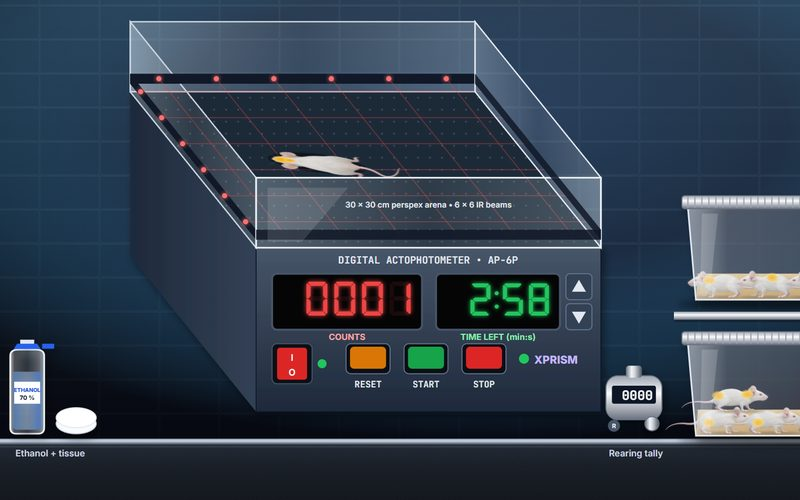
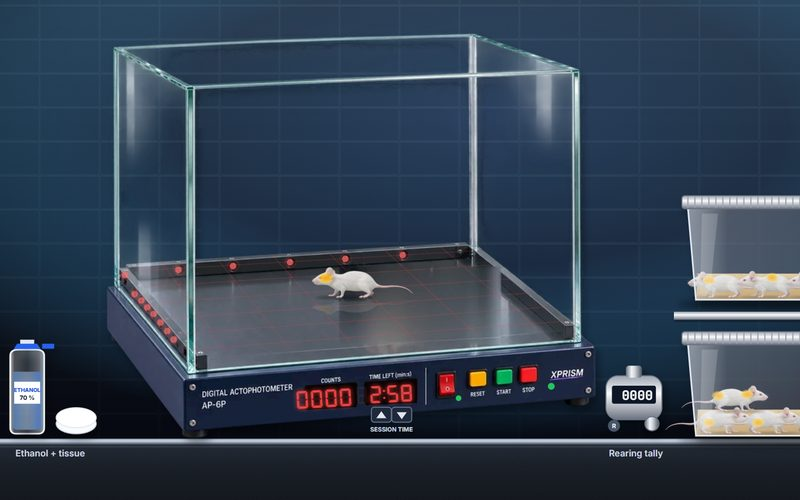
Use a photograph of the actophotometer in Exp 09
The drawn apparatus is replaced by a photograph of a digital
actophotometer, its own mouse removed. The live counter and timer show
in its displays, its power, reset, start and stop buttons work, two small
keys set the session time, and the IR emitters glow while it is on. The
arena maps onto its floor in perspective, where the photographed mouse
walks, rears and is reflected in the metal floor.

diff --git a/experiments/09-locomotor-activity-actophotometer.html b/experiments/09-locomotor-activity-actophotometer.html
@@ -1409,51 +1409,52 @@
     }
 
     // ================================================================ STATION 3: ACTOPHOTOMETER (scene + controls)
-    const AR = { X: 150, Y: 120, SX: 1.15, KX: 0.42, SY: 0.52, H: 70, N: 6 };
-    const arP = (u, v) => [AR.X + u * AR.SX + v * AR.KX, AR.Y + v * AR.SY];
+    // The apparatus is a photograph of a digital actophotometer (tools/animal-photos: actophotometer, 1536 x 1024 px, its
+    // mouse removed), drawn at AC.s scene px per photo px with its top left at (AC.x, AC.y). The 30 x 30 cm arena (u, v
+    // in mm x 10, 0..300, u to the right, v towards the front) maps onto its floor between the four corners below.
+    const AC = { src: '../assets/img/animals/actophotometer.webp?v=1', w: 1536, h: 1024, x: 46, y: 44, s: .425,
+      floor: { bl: [252, 598], br: [1036, 553], fl: [404, 820], fr: [1282, 752] } };
+    const AR = { N: 6 };
+    const acPx = (px, py) => [AC.x + px * AC.s, AC.y + py * AC.s];
+    function arP(u, v) {
+      const a = u / 300, b = v / 300, F = AC.floor;
+      const px = (1 - b) * ((1 - a) * F.bl[0] + a * F.br[0]) + b * ((1 - a) * F.fl[0] + a * F.fr[0]);
+      const py = (1 - b) * ((1 - a) * F.bl[1] + a * F.br[1]) + b * ((1 - a) * F.fl[1] + a * F.fr[1]);
+      return acPx(px, py);
+    }
     const PRESETS = [60, 120, 180, 300, 600];
     function scene3() {
       const a = S.ac; let s = room(470);
       const P = (u, v, dz = 0) => { const [x, y] = arP(u, v); return `${x.toFixed(1)},${(y - dz).toFixed(1)}`; };
-      s += `<defs><linearGradient id="acBody" x1="0" y1="0" x2="0" y2="1"><stop offset="0" stop-color="#475569"/><stop offset="1" stop-color="#1e293b"/></linearGradient>
-        <linearGradient id="acSide" x1="0" x2="1"><stop offset="0" stop-color="#1e293b"/><stop offset="1" stop-color="#334155"/></linearGradient>
-        <linearGradient id="perspex" x1="0" x2="1"><stop offset="0" stop-color="#e0f2fe" stop-opacity=".28"/><stop offset=".5" stop-color="#f8fafc" stop-opacity=".08"/><stop offset="1" stop-color="#e0f2fe" stop-opacity=".22"/></linearGradient>
-        <pattern id="floorGrid" width="12" height="12" patternUnits="userSpaceOnUse"><rect width="12" height="12" fill="#1f2937"/><circle cx="6" cy="6" r=".8" fill="#475569"/></pattern></defs>`;
-      // device base (box under the arena)
-      s += `<g filter="url(#sh)"><polygon points="${P(0, 0)} ${P(0, 300)} ${arP(0, 300)[0]},440 ${AR.X},${arP(0, 0)[1] + 164}" fill="url(#acSide)"/>
-        <polygon points="${P(0, 300)} ${P(300, 300)} ${arP(300, 300)[0]},440 ${arP(0, 300)[0]},440" fill="url(#acBody)" stroke="#0f172a"/>
-        <polygon points="${P(0, 0)} ${P(300, 0)} ${P(300, 300)} ${P(0, 300)}" fill="url(#floorGrid)" stroke="#0f172a"/></g>`;
-      // back & left walls with IR emitter strips
-      s += `<polygon points="${P(0, 0)} ${P(300, 0)} ${P(300, 0, AR.H)} ${P(0, 0, AR.H)}" fill="url(#perspex)" stroke="#cbd5e1" stroke-width="1.4"/>
-        <polygon points="${P(0, 0)} ${P(0, 300)} ${P(0, 300, AR.H)} ${P(0, 0, AR.H)}" fill="url(#perspex)" stroke="#cbd5e1" stroke-width="1.4"/>
-        <polygon points="${P(0, 0, 8)} ${P(300, 0, 8)} ${P(300, 0, 18)} ${P(0, 0, 18)}" fill="#111827"/><polygon points="${P(0, 0, 8)} ${P(0, 300, 8)} ${P(0, 300, 18)} ${P(0, 0, 18)}" fill="#111827"/>`;
+      const Q = pts => pts.map(([x, y]) => acPx(x, y).map(v => v.toFixed(1)).join(',')).join(' ');
+      // the photographed apparatus
+      s += `<g filter="url(#sh)"><image x="${AC.x}" y="${AC.y}" width="${AC.w * AC.s}" height="${AC.h * AC.s}" preserveAspectRatio="none" decoding="sync" href="${AC.src}"/></g>`;
+      // the IR beams: from the emitters on the back and left walls across the floor, a little above it
+      const lift = 7;
       for (let k = 0; k < AR.N; k++) {
-        const c = 25 + 50 * k;
-        s += `<line id="bu${k}" x1="${arP(0, c)[0]}" y1="${arP(0, c)[1] - 13}" x2="${arP(300, c)[0]}" y2="${arP(300, c)[1] - 13}" stroke="#ef4444" stroke-width="1" stroke-opacity="${a.power ? .35 : 0}"/>
-          <line id="bv${k}" x1="${arP(c, 0)[0]}" y1="${arP(c, 0)[1] - 13}" x2="${arP(c, 300)[0]}" y2="${arP(c, 300)[1] - 13}" stroke="#ef4444" stroke-width="1" stroke-opacity="${a.power ? .35 : 0}"/>
-          <circle cx="${arP(0, c)[0]}" cy="${arP(0, c)[1] - 13}" r="2.6" fill="${a.power ? '#f87171' : '#4b5563'}" ${a.power ? 'filter="url(#glowF)"' : ''}/><circle cx="${arP(c, 0)[0]}" cy="${arP(c, 0)[1] - 13}" r="2.6" fill="${a.power ? '#f87171' : '#4b5563'}" ${a.power ? 'filter="url(#glowF)"' : ''}/>`;
+        const c = 25 + 50 * k, [ax, ay] = arP(0, c), [bx, by] = arP(300, c), [cx, cy] = arP(c, 0), [dx, dy] = arP(c, 300);
+        s += `<line id="bu${k}" x1="${ax}" y1="${ay - lift}" x2="${bx}" y2="${by - lift}" stroke="#ef4444" stroke-width="1" stroke-opacity="${a.power ? .18 : 0}"/>
+          <line id="bv${k}" x1="${cx}" y1="${cy - lift}" x2="${dx}" y2="${dy - lift}" stroke="#ef4444" stroke-width="1" stroke-opacity="${a.power ? .18 : 0}"/>`;
       }
-      s += `<g class="hot" data-act="arena"><polygon points="${P(0, 0)} ${P(300, 0)} ${P(300, 300)} ${P(0, 300)}" fill="#000" opacity="0"/><g id="acM"></g></g>`;
-      // right & front walls (in front of the mouse) with receiver strips
-      s += `<g pointer-events="none"><polygon points="${P(300, 0)} ${P(300, 300)} ${P(300, 300, AR.H)} ${P(300, 0, AR.H)}" fill="url(#perspex)" stroke="#e2e8f0" stroke-width="1.4"/>
-        <polygon points="${P(0, 300)} ${P(300, 300)} ${P(300, 300, AR.H)} ${P(0, 300, AR.H)}" fill="url(#perspex)" stroke="#f1f5f9" stroke-width="1.6"/>
-        <polygon points="${P(300, 0, 8)} ${P(300, 300, 8)} ${P(300, 300, 18)} ${P(300, 0, 18)}" fill="#111827" opacity=".85"/><polygon points="${P(0, 300, 8)} ${P(300, 300, 8)} ${P(300, 300, 18)} ${P(0, 300, 18)}" fill="#111827" opacity=".85"/>
-        <polygon points="${P(10, 300, 60)} ${P(80, 300, 60)} ${P(40, 300, 6)} ${P(10, 300, 6)}" fill="#fff" opacity=".12"/>
-        ${lbl(arP(150, 300)[0], arP(150, 300)[1] - 40, '30 × 30 cm perspex arena • 6 × 6 IR beams', { s: 8, c: '#e2e8f0' })}</g>`;
-      // front control panel
-      const fx0 = arP(0, 300)[0], fy0 = arP(0, 300)[1];
-      const btn = (x, act, col, t) => `<g class="hot" data-act="${act}"><rect x="${x - 22}" y="${fy0 + 96}" width="44" height="30" rx="5" fill="#0b0f16" stroke="#64748b"/><rect x="${x - 18}" y="${fy0 + 99}" width="36" height="22" rx="4" fill="${col}"/></g>${lbl(x, fy0 + 140, t, { s: 9, c: '#e2e8f0', w: 700, f: 'JetBrains Mono, monospace' })}`;
-      s += `${lbl(fx0 + 172, fy0 + 16, 'DIGITAL ACTOPHOTOMETER • AP-6P', { s: 10, c: '#e2e8f0', w: 700, f: 'JetBrains Mono, monospace' })}
-        <rect x="${fx0 + 16}" y="${fy0 + 26}" width="150" height="56" rx="5" fill="#050505" stroke="#475569" stroke-width="2"/>${lbl(fx0 + 91, fy0 + 92, 'COUNTS', { s: 8.5, c: '#fca5a5', w: 700 })}
-        <text x="${fx0 + 158}" y="${fy0 + 68}" text-anchor="end" font-family="DSEG7, JetBrains Mono" font-size="34" fill="#ef4444" opacity=".1">8888</text><text id="acCnt" x="${fx0 + 158}" y="${fy0 + 68}" text-anchor="end" font-family="DSEG7, JetBrains Mono" font-size="34" fill="#ef4444" filter="url(#glowF)"></text>
-        <rect x="${fx0 + 180}" y="${fy0 + 26}" width="124" height="56" rx="5" fill="#050505" stroke="#475569" stroke-width="2"/>${lbl(fx0 + 242, fy0 + 92, 'TIME LEFT (min:s)', { s: 8.5, c: '#86efac', w: 700 })}
-        <text id="acTime" x="${fx0 + 296}" y="${fy0 + 68}" text-anchor="end" font-family="DSEG7, JetBrains Mono" font-size="32" fill="#22c55e" filter="url(#glowF)"></text>
-        <g class="hot" data-act="time:1"><rect x="${fx0 + 310}" y="${fy0 + 26}" width="26" height="26" rx="4" fill="#334155" stroke="#64748b"/><path d="M${fx0 + 323} ${fy0 + 32} l-7 12 h14z" fill="#e2e8f0"/></g>
-        <g class="hot" data-act="time:-1"><rect x="${fx0 + 310}" y="${fy0 + 56}" width="26" height="26" rx="4" fill="#334155" stroke="#64748b"/><path d="M${fx0 + 323} ${fy0 + 76} l-7 -12 h14z" fill="#e2e8f0"/></g>
-        <g class="hot" data-act="apower"><rect x="${fx0 + 16}" y="${fy0 + 96}" width="40" height="40" rx="5" fill="#0b0f16" stroke="#475569"/><rect x="${fx0 + 21}" y="${fy0 + 100}" width="30" height="32" rx="3" fill="${a.power ? '#dc2626' : '#7f1d1d'}"/>${lbl(fx0 + 36, fy0 + 113, 'I', { s: 9, c: '#fff' })}${lbl(fx0 + 36, fy0 + 128, 'O', { s: 9, c: '#fff' })}</g>
-        <circle cx="${fx0 + 66}" cy="${fy0 + 116}" r="4.5" fill="${a.power ? '#22c55e' : '#334155'}"/>
-        ${btn(fx0 + 112, 'areset', '#d97706', 'RESET')}${btn(fx0 + 170, 'astart', '#16a34a', 'START')}${btn(fx0 + 228, 'astop', '#dc2626', 'STOP')}
-        <circle id="acRunLed" cx="${fx0 + 268}" cy="${fy0 + 111}" r="5" fill="#334155"/>${lbl(fx0 + 300, fy0 + 116, 'XPRISM', { s: 11, c: '#c4b5fd', w: 800 })}`;
+      // the photo's emitters glow while the instrument is on
+      if (a.power) [[358, 598], [487, 589], [621, 580], [751, 572], [886, 563], [232, 610], [255, 655], [271, 670], [285, 686], [300, 702], [316, 722], [332, 742], [347, 762]].forEach(([x, y]) => {
+        const [X, Y] = acPx(x, y); s += `<circle cx="${X.toFixed(1)}" cy="${Y.toFixed(1)}" r="3.2" fill="#f87171" opacity=".75" filter="url(#glowF)"/>`;
+      });
+      s += `<g class="hot" data-act="arena"><polygon points="${Q([AC.floor.bl, AC.floor.br, AC.floor.fr, AC.floor.fl])}" fill="#000" opacity="0"/><g id="acM"></g></g>`;
+      // the front panel: live counter and timer over the photo's displays, clickable areas on its own buttons
+      const disp = (id, pts, col, ghost) => { const [x0, y0] = acPx(pts[0][0], pts[0][1]), [x1, y1] = acPx(pts[1][0], pts[1][1]), [, y3] = acPx(pts[3][0], pts[3][1]);
+        const ang = Math.atan2(y1 - y0, x1 - x0) * 57.3, h0 = y3 - y0;
+        return `<polygon points="${Q(pts)}" fill="#0a0303"/><g transform="translate(${x1 - 3} ${y0 + h0 * .82}) rotate(${ang.toFixed(2)})"><text x="0" y="0" text-anchor="end" font-family="DSEG7, JetBrains Mono" font-size="${(h0 * .72).toFixed(1)}" fill="${col}" opacity=".1">${ghost}</text><text id="${id}" x="0" y="0" text-anchor="end" font-family="DSEG7, JetBrains Mono" font-size="${(h0 * .72).toFixed(1)}" fill="${col}" filter="url(#glowF)"></text></g>`; };
+      s += disp('acCnt', [[657, 870], [777, 863], [778, 921], [658, 928]], '#ef4444', '8888') + disp('acTime', [[798, 862], [919, 856], [920, 911], [799, 917]], '#ef4444', '88:88');
+      const hot = (act, pts) => `<g class="hot" data-act="${act}"><polygon points="${Q(pts)}" fill="#fff" opacity="0"/></g>`;
+      s += hot('apower', [[962, 834], [1012, 832], [1012, 898], [962, 900]]) + hot('areset', [[1037, 832], [1088, 829], [1088, 880], [1037, 883]])
+        + hot('astart', [[1100, 826], [1150, 823], [1150, 874], [1100, 877]]) + hot('astop', [[1157, 820], [1207, 817], [1207, 868], [1157, 871]]);
+      // the photo has no session-time keys: two small ones on the panel under the timer, and a run lamp by the logo
+      const key = (act, x, up) => { const [X, Y] = acPx(x, 940); return `<g class="hot" data-act="${act}"><rect x="${X - 10}" y="${Y - 8}" width="20" height="15" rx="3" fill="#1e293b" stroke="#64748b"/><path d="${up ? `M${X - 5} ${Y + 3} L${X} ${Y - 4} L${X + 5} ${Y + 3}Z` : `M${X - 5} ${Y - 3} L${X} ${Y + 4} L${X + 5} ${Y - 3}Z`}" fill="#e2e8f0"/></g>`; };
+      s += key('time:1', 836, true) + key('time:-1', 884, false);
+      { const [X, Y] = acPx(1236, 872); s += `<circle id="acRunLed" cx="${X.toFixed(1)}" cy="${Y.toFixed(1)}" r="3.4" fill="#334155"/>`; }
+      { const [X, Y] = acPx(1018, 900); s += `<circle cx="${X.toFixed(1)}" cy="${Y.toFixed(1)}" r="2.8" fill="${a.power ? '#22c55e' : '#334155'}"/>`; }
+      { const [X, Y] = acPx(860, 965); s += lbl(X, Y + 6, 'SESSION TIME', { s: 6, c: '#cbd5e1', w: 700 }); }
       // ethanol, tissue, tally counter
       s += `<g class="hot" data-act="ethanol" filter="url(#sh)"><rect x="40" y="368" width="14" height="10" fill="#e2e8f0"/><path d="M33 378 h28 l-4 -6 h-20z" fill="#2563eb"/><rect x="62" y="372" width="12" height="5" fill="#2563eb"/><path d="M30 384 q0 -6 8 -6 h18 q8 0 8 6 v72 q0 6 -6 6 h-22 q-6 0 -6 -6z" fill="url(#glass)" stroke="url(#glassEdge)" stroke-width="1.6"/><path d="M33 400 h28 v54 q0 4 -4 4 h-20 q-4 0 -4 -4z" fill="url(#liquid)" opacity=".6"/><rect x="34" y="410" width="26" height="22" fill="#fff"/>${lbl(47, 420, 'ETHANOL', { s: 5.4, w: 800, c: '#1d4ed8' })}${lbl(47, 428, '70 %', { s: 6, w: 800 })}
         <ellipse cx="96" cy="452" rx="20" ry="10" fill="#f8fafc" stroke="#cbd5e1"/><ellipse cx="96" cy="446" rx="20" ry="10" fill="#fff" stroke="#e2e8f0"/></g>${lbl(70, 485, 'Ethanol + tissue', { s: 9, c: '#cbd5e1' })}`;
@@ -1574,12 +1575,19 @@
       $('acTime').textContent = A.power ? `${Math.floor(A.left / 60)}:${String(Math.floor(A.left % 60)).padStart(2, '0')}` : '';
       $('acRunLed').setAttribute('fill', A.run ? '#22c55e' : '#334155');
       const now = performance.now();
-      A.flash = A.flash.filter(([id, t]) => { const e = $(id); const on = now - t < 160; if (e) { e.setAttribute('stroke-opacity', on ? 1 : A.power ? .35 : 0); e.setAttribute('stroke-width', on ? 2.6 : 1); } return on; });
+      A.flash = A.flash.filter(([id, t]) => { const e = $(id); const on = now - t < 160; if (e) { e.setAttribute('stroke-opacity', on ? 1 : A.power ? .18 : 0); e.setAttribute('stroke-width', on ? 2.6 : 1); } return on; });
       const g = $('acM');
       if (A.m === null) { if (g.innerHTML) g.innerHTML = ''; }
       else {
-        const m = M(A.m), [x, y] = arP(A.x, A.y), rear = A.st === 'rear' ? 1 : 0, step = A.st === 'walk' ? Math.sin(now / 60) * 2 : 0;
-        g.innerHTML = `<g transform="matrix(${AR.SX} 0 ${AR.KX} ${AR.SY} ${x.toFixed(1)} ${(y - rear * 10).toFixed(1)}) rotate(${(A.hd * 180 / Math.PI).toFixed(1)}) scale(1.35)"><ellipse cx="0" cy="${rear * 8}" rx="30" ry="14" fill="#000" opacity=".35"/>${topMouse(m, { rear, groom: A.st === 'groom', step, tailCurve: Math.sin(now / 400) * .5 })}</g>${rear ? `<text x="${x}" y="${y - 52}" text-anchor="middle" font-size="9" fill="#fde68a" font-weight="700" opacity=".0">rear</text>` : ''}`;
+        const m = M(A.m), [x, y] = arP(A.x, A.y), rear = A.st === 'rear' ? 1 : 0, walk = A.st === 'walk';
+        // which way it faces on screen, from its heading on the floor
+        const [x2] = arP(A.x + Math.cos(A.hd) * 10, A.y + Math.sin(A.hd) * 10), flip = x2 < x;
+        const k = 1.55 + .45 * (A.y / 300), bob = walk ? Math.abs(Math.sin(now / 90)) * .6 : 0, groom = A.st === 'groom' ? Math.sin(now / 70) * 4 : 0;
+        // rearing: up on its hind feet; grooming: the head bobs
+        const pose = `rotate(${(-32 * rear + groom * .5).toFixed(1)} -6 9)`, art = sideMouse(m, flip);
+        g.innerHTML = `<g transform="translate(${x.toFixed(1)} ${(y - 9 * k - bob).toFixed(1)}) scale(${k.toFixed(3)})">
+          <g transform="translate(0 9.2) scale(1 -.55) translate(0 -9.2)" opacity=".14">${art}</g>
+          <g transform="${pose}">${art}</g></g>`;
       }
       const h = $('handG'); if (h) { const k = 'h' + S.hand; if (h.dataset.k !== k) { h.dataset.k = k; h.innerHTML = handHeld(70, 54); } }
     }
